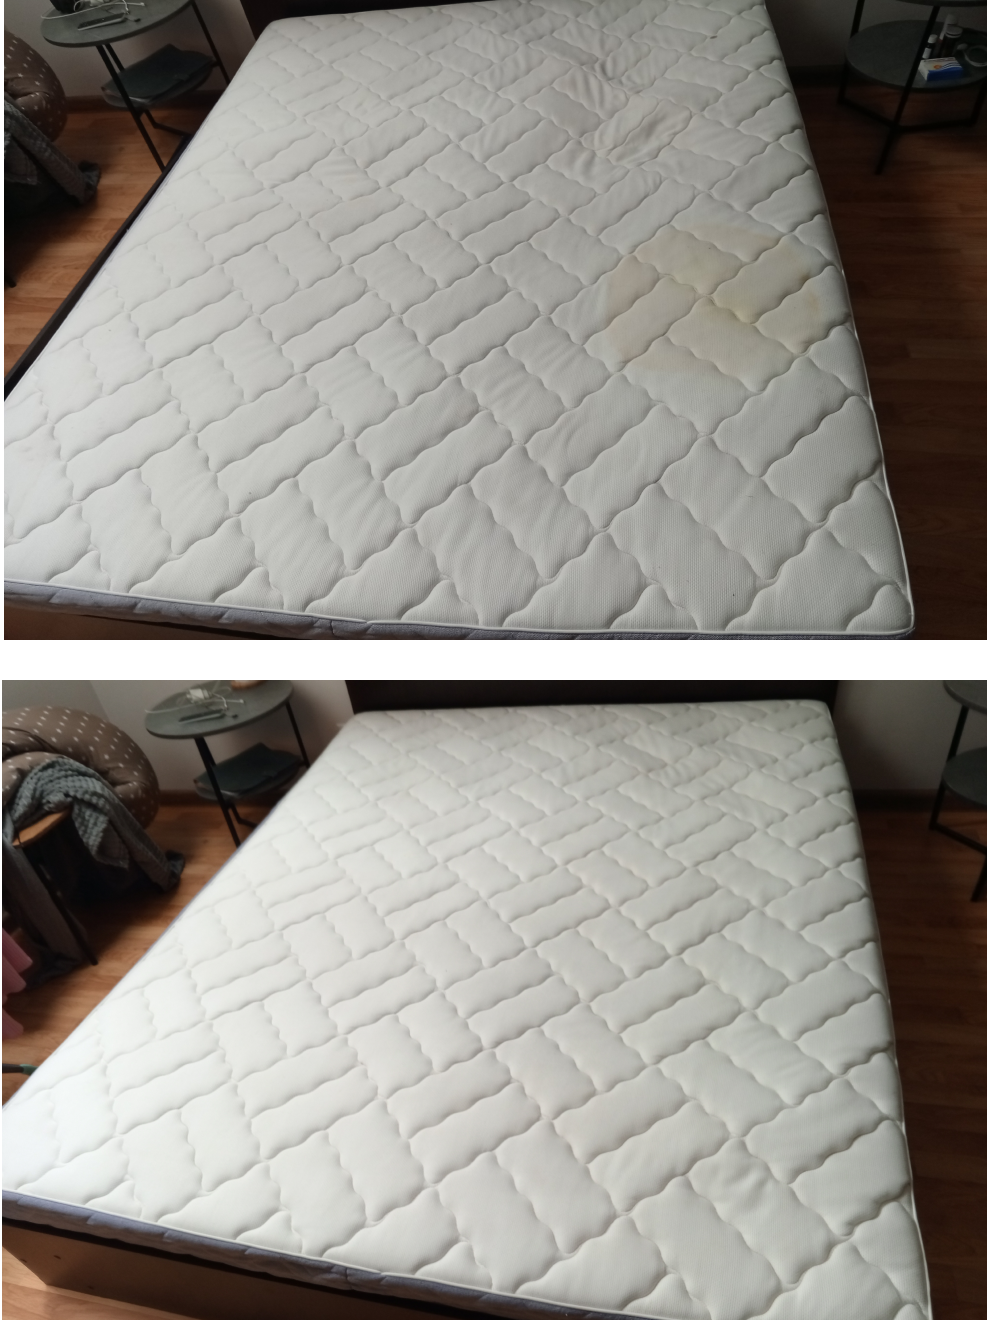
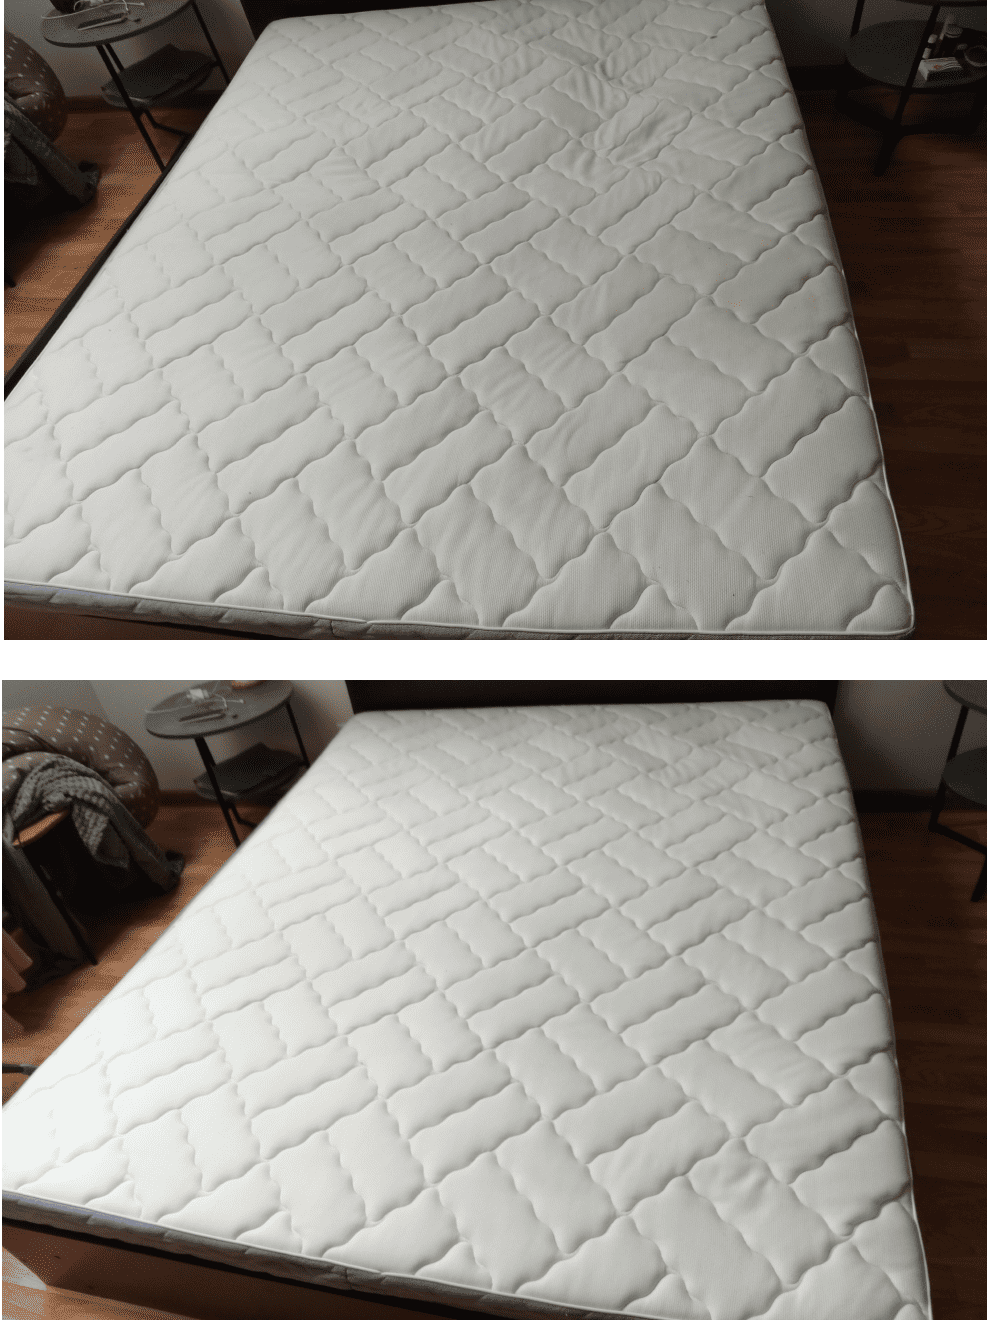
в галерее облегчил фотки и добавил все для планшетной версии

diff --git a/photogallery.html b/photogallery.html
@@ -481,6 +481,99 @@
           <div class="images__grid-container">
             <div class="images__item">
               <img
+                src="./images-photogallery/before-after-mobile-tablet/Screenshot_1.png"
+                alt="на картинке изображение моих работы"
+              />
+            </div>
+            <div class="images__item">
+              <img
+                src="./images-photogallery/before-after-mobile-tablet/Screenshot_2.png"
+                alt="на картинке изображение моих работы"
+              />
+            </div>
+            <div class="images__item">
+              <img
+                src="./images-photogallery/before-after-mobile-tablet/Screenshot_3.png"
+                alt="на картинке изображение моих работы"
+              />
+            </div>
+
+            <div class="images__item">
+              <img
+                src="./images-photogallery/before-after-mobile-tablet/Screenshot_one.png"
+                alt="на картинке изображение моих работы"
+              />
+            </div>
+            <div class="images__item">
+              <img
+                src="./images-photogallery/before-after-mobile-tablet/Screenshot_two.png"
+                alt="на картинке изображение моих работы"
+              />
+            </div>
+            <div class="images__item">
+              <img
+                src="./images-photogallery/before-after-mobile-tablet/Screenshot_three.png"
+                alt="на картинке изображение моих работы"
+              />
+            </div>
+
+            <div class="images__item">
+              <img
+                src="./images-photogallery/before-after-mobile-tablet/Screenshot_4.png"
+                alt="на картинке изображение моих работы"
+              />
+            </div>
+            <div class="images__item">
+              <img
+                src="./images-photogallery/before-after-mobile-tablet/Screenshot_5.png"
+                alt="на картинке изображение моих работы"
+              />
+            </div>
+            <div class="images__item">
+              <img
+                src="./images-photogallery/before-after-mobile-tablet/Screenshot_6.png"
+                alt="на картинке изображение моих работы"
+              />
+            </div>
+            <div class="images__item">
+              <img
+                src="./images-photogallery/before-after-mobile-tablet/Screenshot_7.png"
+                alt="на картинке изображение моих работы"
+              />
+            </div>
+            <div class="images__item">
+              <img
+                src="./images-photogallery/before-after-mobile-tablet/Screenshot_8.png"
+                alt="на картинке изображение моих работы"
+              />
+            </div>
+            <div class="images__item">
+              <img
+                src="./images-photogallery/before-after-mobile-tablet/Screenshot_9.png"
+                alt="на картинке изображение моих работы"
+              />
+            </div>
+            <div class="images__item">
+              <img
+                src="./images-photogallery/before-after-mobile-tablet/Screenshot_10.png"
+                alt="на картинке изображение моих работы"
+              />
+            </div>
+            <div class="images__item">
+              <img
+                src="./images-photogallery/before-after-mobile-tablet/Screenshot_11.png"
+                alt="на картинке изображение моих работы"
+              />
+            </div>
+            <div class="images__item">
+              <img
+                src="./images-photogallery/before-after-mobile-tablet/Screenshot_12.png"
+                alt="на картинке изображение моих работы"
+              />
+            </div>
+
+            <div class="images__item">
+              <img
                 src="./images-photogallery/before-after-mobile-tablet/Frame811496.png"
                 alt="на картинке изображение моих работы"
               />

diff --git a/images/slider-index/fotoScrin-tablet.html b/images/slider-index/fotoScrin-tablet.html
@@ -9,16 +9,17 @@
       .card {
        /* width: 495px;
         height: 182px;*/
-        width: 990px;
-        height: 364px;
+        width: 988px;
+        height: 1320px;
         display: flex;
+        flex-direction: column;
         justify-content: space-between;
       }
 
       .card__img-1 {
-        width: 485px;
+        width: 100%;
       /* width: 240px;*/
-        height: 100%;
+        height: 645px;
        /* background-image: url(../../images-photogallery/new-foto/1.jpg);
         background-size: cover;*/
         /*background-position: bottom;*/
@@ -26,9 +27,9 @@
       }
 
       .card__img-2 {
-        width: 485px;
+        width: 100%;
        /* width: 240px;*/
-        height: 100%;
+       height: 645px;
         /*background-image: url(../../images-photogallery/new-foto/2.jpg);*/
        /* background-size: cover;*/
        /* background-position: bottom;*/
@@ -40,9 +41,10 @@
     <h1>foto scrin</h1>
 
     <div class="card">
-      <img src="../../images-photogallery/new-foto/1000036923.jpg" class="card__img-1"></img>
+      <img src="../../images-photogallery/new-foto/27.jpg
+      " class="card__img-1"></img>
 
-      <img src="../../images-photogallery/new-foto/1000036899.jpg" class="card__img-2"></img>
+      <img src="../../images-photogallery/new-foto/28.jpg" class="card__img-2"></img>
     </div>
   </body>
 </html>
